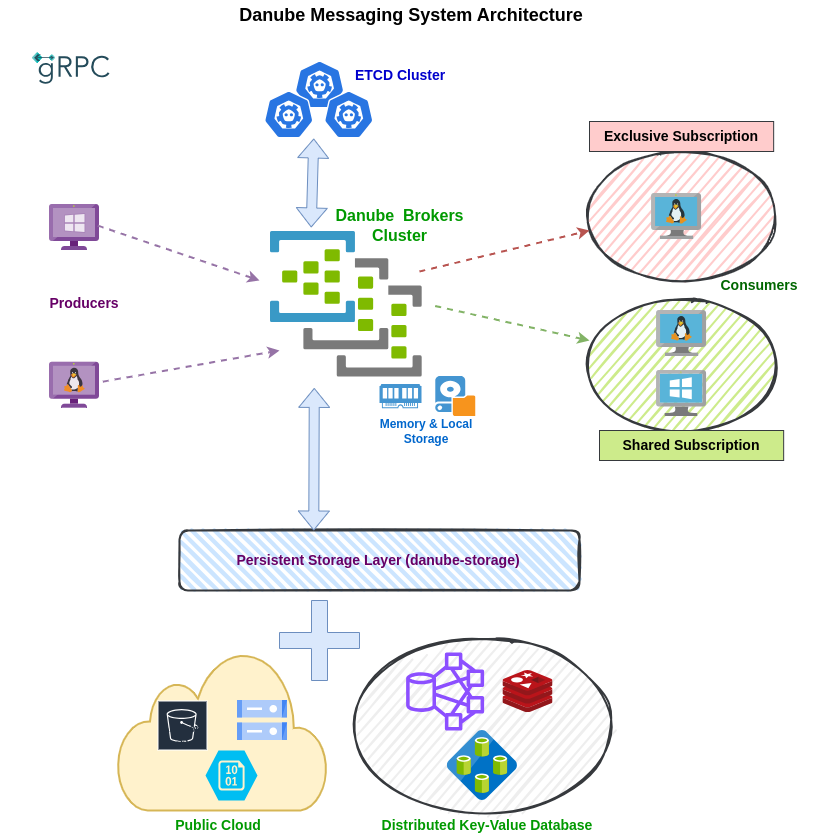
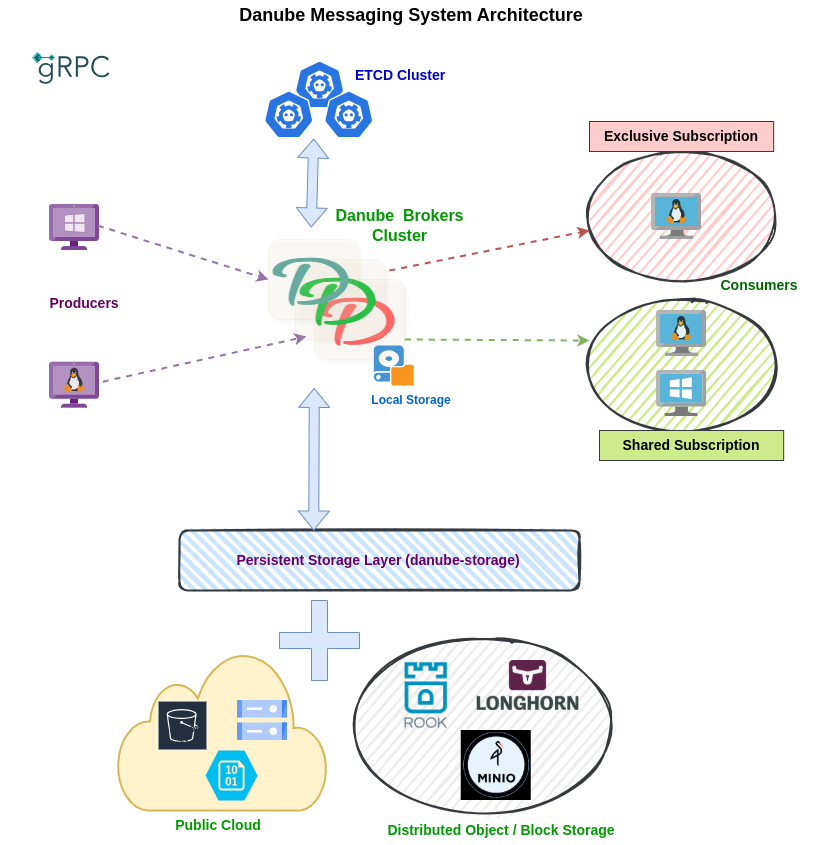
creating doc to run Danube with docker-compose

diff --git a/docs/getting_started/Danube_docker_compose.md b/docs/getting_started/Danube_docker_compose.md
@@ -1,0 +1,206 @@
+# Run Danube with docker-compose and MINIO as persistence storage
+
+This guide provides instructions on how to run Danube Messaging Pub/Sub using Docker and Docker Compose. It sets up ETCD for metadata storage and MinIO for topic persistence storage.
+
+The MINIO storage is used as an example but can be used with any [implemented storage layers](https://github.com/danube-messaging/danube-storage).
+
+The Danube supports two dispatch strategies:
+
+* **Non-reliable dispatch**: This strategy prioritizes speed and minimal resource usage by delivering messages directly from producers to subscribers without storing them. Messages flow through the broker in a "fire and forget" manner, achieving the lowest possible latency.
+* **Reliable dispatch**: This strategy prioritizes message delivery and reliability, by implementing a store-and-forward mechanism.
+
+This guide focus on running Danube with a reliable dispatch strategy and MINIO as persistence storage.
+
+## Prerequisites
+
+Ensure you have the following installed on your system:
+Docker
+Docker Compose
+
+## Docker Compose architecture
+
+![Danube docker Compose](img/reliable_with_minio_storage.png "Danube Docker Compose")
+
+## Docker Compose Configuration
+
+### Key Components
+
+* **ETCD (etcd)**: Stores Danube's metadata.
+* **Danube Brokers (broker1, broker2)**: Handles message routing.
+* **MinIO (minio)**: Provides object storage for persistent topics.
+* **Danube MinIO Storage** (danube-minio-storage): Bridges Danube and MinIO.
+
+The [docker-compose.yml](https://github.com/danube-messaging/danube-storage/blob/main/danube-minio-storage/test_minio_storage/docker-compose.yml) file defines the following services:
+
+### ETCD (Metadata Storage)
+
+ETCD is used for storing metadata.
+
+```yaml
+  etcd:
+    image: quay.io/coreos/etcd:latest
+    container_name: etcd-danube
+    environment:
+      ETCDCTL_API: 3
+      ETCD_ADVERTISE_CLIENT_URLS: "http://etcd:2379"
+      ETCD_LISTEN_CLIENT_URLS: "http://0.0.0.0:2379"
+      ETCD_INITIAL_CLUSTER: "etcd-danube=http://etcd-danube:2380"
+      ETCD_NAME: "etcd-danube"
+      ETCD_LISTEN_PEER_URLS: "http://0.0.0.0:2380"
+      ETCD_INITIAL_ADVERTISE_PEER_URLS: "http://etcd-danube:2380"
+    ports:
+      - "2379:2379"
+      - "2380:2380"
+    healthcheck:
+      test: ["CMD", "etcdctl", "--endpoints=http://127.0.0.1:2379", "endpoint", "health"]
+      interval: 2s
+      timeout: 5s
+      retries: 10
+```
+
+### Danube Brokers (Message Brokers)
+
+Two brokers are defined (broker1 and broker2) that handle messaging. As the prerequisites, the etcd service must be healthy.
+Ensure that your [`danube_broker.yml`](https://github.com/danube-messaging/danube-storage/blob/main/danube-minio-storage/test_minio_storage/danube_broker.yml) configuration file is correctly set up.
+
+```yaml
+  broker1:
+    image: ghcr.io/danube-messaging/danube-broker:latest
+    container_name: broker1
+    depends_on:
+      etcd:
+        condition: service_healthy
+    volumes:
+      - ./danube_broker.yml:/etc/danube_broker.yml:ro
+    environment:
+      RUST_LOG: danube_broker=info
+    command: [
+      "--config-file", "/etc/danube_broker.yml",
+      "--broker-addr", "0.0.0.0:6650",
+      "--admin-addr", "0.0.0.0:50051",
+      "--prom-exporter", "0.0.0.0:3000"
+    ]
+    ports:
+      - "6650:6650"
+      - "50051:50051"
+      - "3000:3000"
+```
+
+The second broker (broker2) is configured similarly but runs on different ports.
+
+### MinIO (Persistent Storage)
+
+MinIO is used for message persistence. [Danube-minio-storage](https://github.com/danube-messaging/danube-storage/tree/main/danube-minio-storage) implements the storage grpc service for Danube and connects to MinIO.
+
+```yaml
+  minio:
+    image: minio/minio
+    container_name: minio
+    environment:
+      MINIO_ROOT_USER: minioadmin
+      MINIO_ROOT_PASSWORD: minioadmin
+    command: server /data --console-address ":9001"
+    ports:
+      - "9000:9000"
+      - "9001:9001"
+    volumes:
+      - minio_data:/data
+    healthcheck:
+      test: ["CMD", "curl", "-f", "http://localhost:9000/minio/health/live"]
+      interval: 30s
+      timeout: 20s
+      retries: 3
+
+  danube-minio-storage:
+    build:
+      context: ../.
+      dockerfile: Dockerfile
+    container_name: danube-minio-storage
+    environment:
+      GRPC_MINIO_PORT: 50060
+      MINIO_ENDPOINT: minio:9000
+      MINIO_ACCESS_KEY_ID: minioadmin
+      MINIO_SECRET_ACCESS_KEY: minioadmin
+      MINIO_BUCKET_NAME: danube-messages
+      MINIO_LOCATION: us-east-1
+    depends_on:
+      minio:
+        condition: service_healthy
+    ports:
+      - "50060:50060"
+
+volumes:
+  minio_data:
+```
+
+## Running Danube Messaging
+
+1. Start the services using Docker Compose:
+
+    ```bash
+    docker-compose up --build
+
+    ✔ danube-minio-storage                Built  
+    ✔ Network test_minio_storage_default  Created 
+    ✔ Container etcd-danube               Created 
+    ✔ Container minio                     Created 
+    ✔ Container broker2                   Created 
+    ✔ Container broker1                   Created  
+    ✔ Container danube-minio-storage      Created 
+    ```
+
+    This command will download the necessary images and start the containers. Docker Compose will ensure that ETCD and MinIO are healthy before starting the Danube brokers and storage component.
+
+2. Verify running containers:
+
+    ```bash
+    docker ps
+    ```
+
+    This command will show you the running containers and their status.
+
+    ```bash
+    $ docker ps
+    CONTAINER ID   IMAGE                                           COMMAND                  CREATED          STATUS                    PORTS                                                                                                                                           NAMES
+    d791e51e7a29   test_minio_storage-danube-minio-storage         "./danube-minio-stor…"   35 seconds ago   Up 4 seconds              50051/tcp, 0.0.0.0:50060->50060/tcp, :::50060->50060/tcp                                                                                       danube-minio-storage
+    
+    ef4fe0528a57   ghcr.io/danube-messaging/danube-broker:latest   "/usr/local/bin/danu…"   35 seconds ago   Up 32 seconds             0.0.0.0:3000->3000/tcp, :::3000->3000/tcp, 0.0.0.0:6650->6650/tcp, :::6650->6650/tcp, 0.0.0.0:50051->50051/tcp, :::50051->50051/tcp, 6651/tcp   broker1
+    
+    ca1a41d1ef62   ghcr.io/danube-messaging/danube-broker:latest   "/usr/local/bin/danu…"   35 seconds ago   Up 32 seconds             0.0.0.0:3001->3001/tcp, :::3001->3001/tcp, 0.0.0.0:6651->6651/tcp, :::6651->6651/tcp, 0.0.0.0:50052->50052/tcp, :::50052->50052/tcp, 6650/tcp   broker2
+    
+    8a8c4a2e2d03   minio/minio                                     "/usr/bin/docker-ent…"   35 seconds ago   Up 34 seconds (healthy)   0.0.0.0:9000-9001->9000-9001/tcp, :::9000-9001->9000-9001/tcp                                                                                   minio
+    
+    b7cc1c6a2a03   quay.io/coreos/etcd:latest                      "/usr/local/bin/etcd"    35 seconds ago   Up 34 seconds (healthy)   0.0.0.0:2379-2380->2379-2380/tcp, :::2379-2380->2379-2380/tcp  
+    ```
+
+3. Produce messages:
+
+    ```bash
+    danube-cli produce -s http://localhost:6650 -m "Hello Danube" -c 1000 --reliable --segment-size 5 --retention expire --retention-period 7200
+    ```
+
+4. Consume messages:
+
+    ```bash
+    danube-cli consume -s http://localhost:6650 -m my_exclusive --sub-type exclusive
+    ```
+
+## Checking Stored Messages
+
+Open the MinIO console in your browser: `http://localhost:9001/buckets`. Log in with `minioadmin` as both the username and password. You can see the buckets and objects created by Danube.
+
+## Stopping Danube Messaging
+
+To stop and remove the containers:
+
+```bash
+$ docker-compose down
+
+[+] Running 6/6
+ ✔ Container danube-minio-storage      Removed         
+ ✔ Container broker1                   Removed                  
+ ✔ Container broker2                   Removed    
+ ✔ Container minio                     Removed                                    
+ ✔ Container etcd-danube               Removed  
+ ✔ Network test_minio_storage_default  Removed   
+```

diff --git a/docs/architecture/architecture.md b/docs/architecture/architecture.md
@@ -20,7 +20,7 @@ The ETCD cluster serves as the metadata storage for the system by maintaining co
 
 The Storage Layer is where the messages are stored. It's a plugable architecture, you can choose to use immediate dispatch so the messages are not persisted and sent to the consumers immediatelly, or you can use reliable dispatch where the messages are persisted and sent to the consumers when they are available.
 
-The Storage Layer introduces flexibility through its pluggable architecture and storing mechanisms including InMemory and Local Disk for simple persistence, or a GRPC storage interface that supports multiple remote backends like S3, GCP Storage, Redis, and TiKV to enhance scalability and durability.
+The Storage Layer introduces flexibility through its pluggable architecture and storing mechanisms including Local Disk for simple persistence, or enhanced scalability and durability via GRPC storage interface that can connect to any [supported object/block storage](https://github.com/danube-messaging/danube-storage) service.
 
 #### Non-Reliable Dispatch
 
@@ -30,8 +30,9 @@ Non-Reliable Dispatch operates with zero storage overhead, as messages flow dire
 
 Reliable Dispatch offers guaranteed message delivery using the storage options:
 
-* **InMemory storage** provides quick access and is perfect for development or testing environments; **Local Disk storage** ensures message persistence on the broker's filesystem for enhanced durability.
-* **GRPC storage interface** enables connection to external storage systems like AWS S3, GCP Storage, and distributed key-value databases like Redis, TiKV, offering unlimited scalability and enterprise-grade reliability.
+* **Local Disk storage** ensures message persistence on the broker's filesystem for local persistence.
+* **GRPC storage interface** enables external storage persistence, connecting to an external GRPC server that can be implemented for AWS S3, GCP Storage, or other distributed object / block storage systems like MINIO, ROOK, offering unlimited scalability and enterprise-grade reliability.
+* **InMemory storage** provides quick access and is only recommended for development or testing environments;
 
 The ability to choose between these dispatch modes gives users the flexibility to optimize their messaging infrastructure based on their specific requirements for performance, reliability, and resource utilization.
 

diff --git a/docs/architecture/dispatch_strategy.md b/docs/architecture/dispatch_strategy.md
@@ -10,9 +10,9 @@ This strategy prioritizes speed and minimal resource usage by delivering message
 
 This strategy ensures guaranteed message delivery by implementing a store-and-forward mechanism. When a message arrives, it's first stored in the chosen storage backend before being dispatched to subscribers. The storage options include:
 
-* InMemory: Messages are kept in RAM for quick access, ideal for development environments
 * Local Disk: Messages are persisted to the broker's filesystem, providing durability with lightweight operation
-* GRPC Storage Interface: Connects to external storage systems using [danube-storage](https://github.com/danube-messaging/danube-storage) components. It can be implemented for cloud storage as AWS S3, GCP Storage or Azure Blob Storage, also for distributed key-value storage systems like Redis, TiKV, Caassandra, etc.
+* GRPC Storage Interface: Connects to external storage systems using [danube-storage](https://github.com/danube-messaging/danube-storage) components. It can be implemented for cloud storage as AWS S3, GCP Storage or Azure Blob Storage, also for distributed object / block storage systems like MINIO,ROOK, LONGHORN etc.
+* InMemory: Messages are kept in RAM for quick access, only for development & teting environments
 
 The Reliable Dispatch maintains message state and tracks delivery acknowledgments, ensuring messages are not lost even if subscribers are temporarily unavailable.
 
